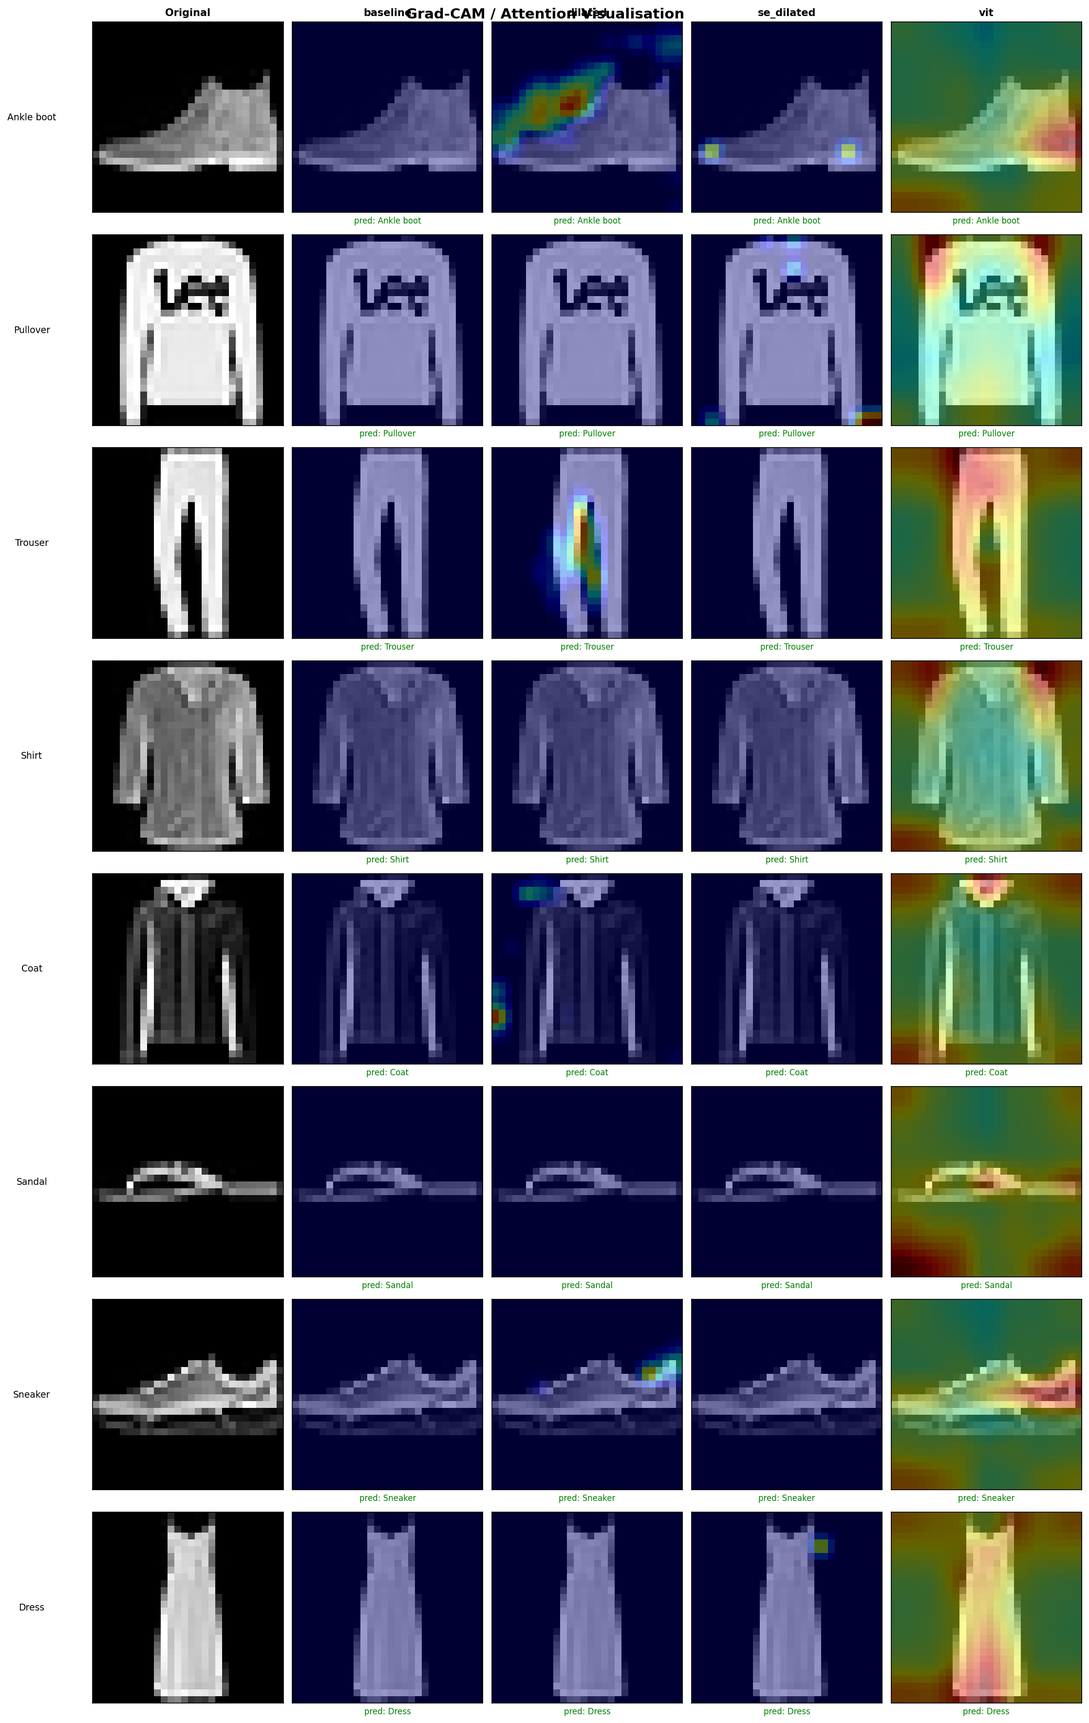
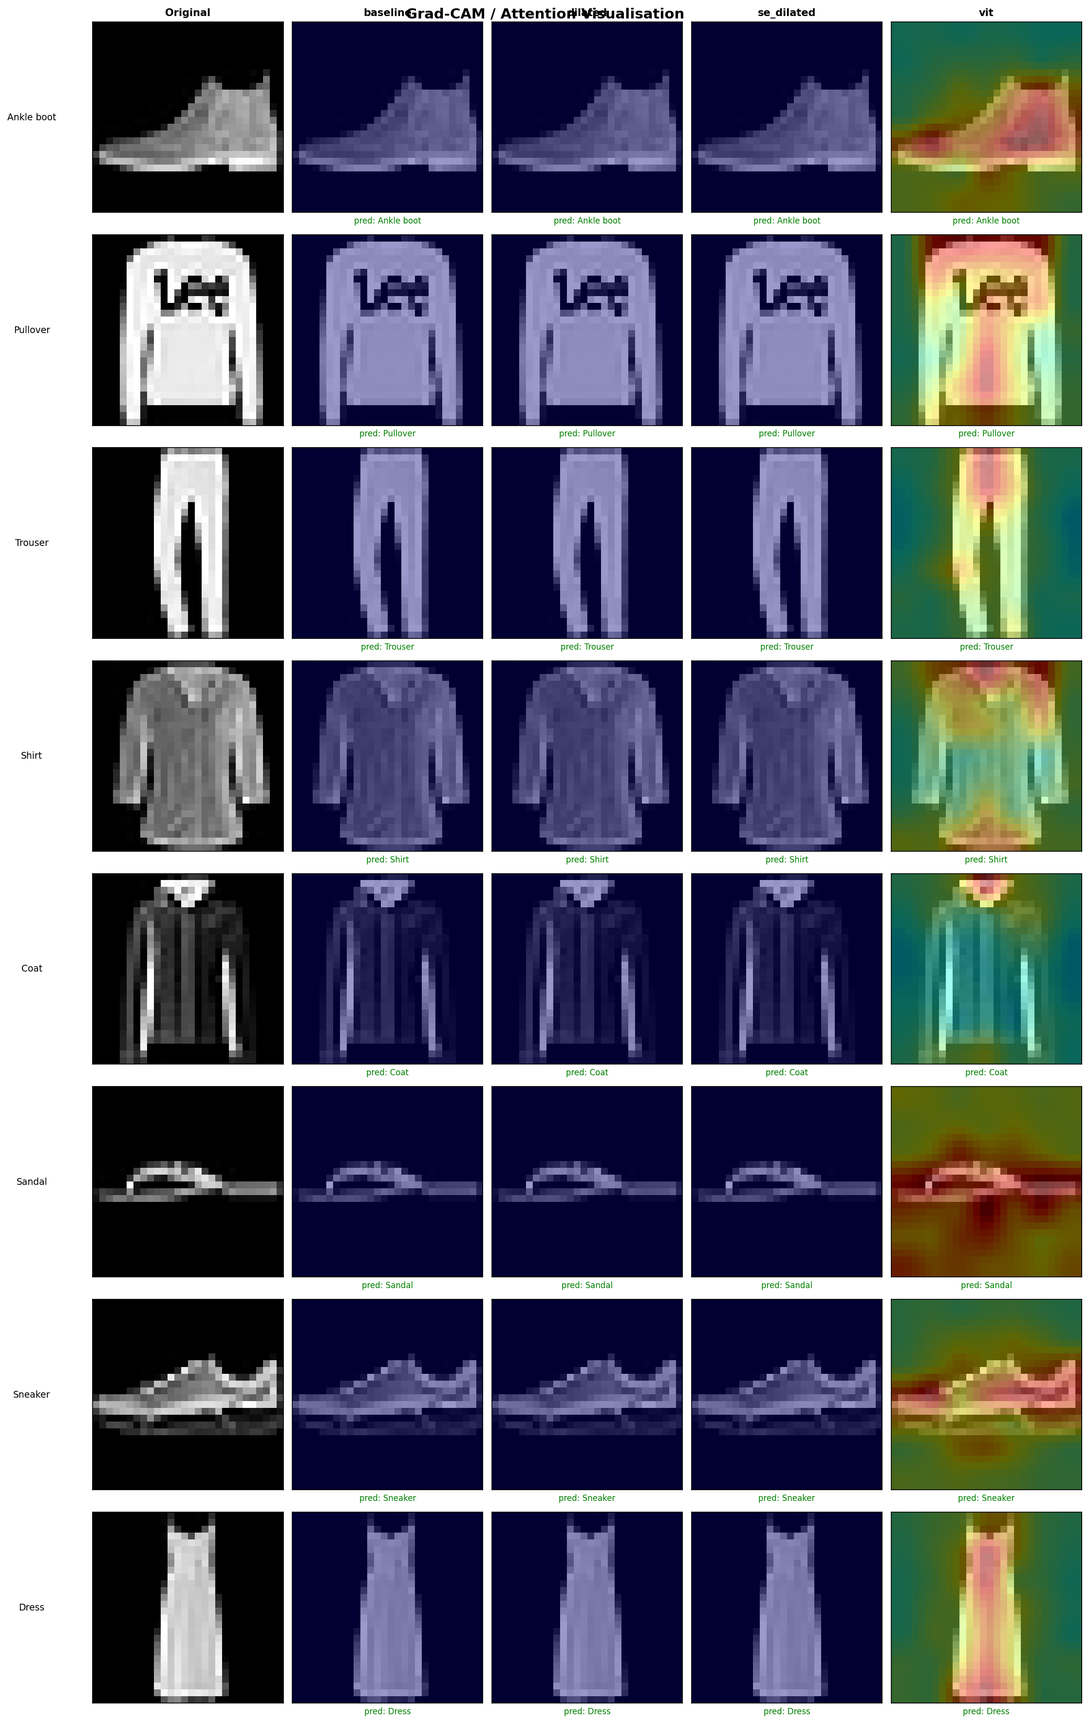
Fix remaining report issues, Grad-CAM bugs, and update README
Report fixes:
- Fix Shirt accuracy range 72-77% → 64-76% (matches JSON data)
- Fix SE gains claim: Shirt +1.1pp and Coat +1.0pp (not Coat/Pullover)
- Fix "collarless" → "similar silhouettes" (Coat has collars)
- Fix "exponentially increasing" → "enlarging" receptive field
- Fix ">98%" → "above 97%" for Trouser/Bag
- Fix "prepended" → CLS token prepended, positional embeddings added
- Move SimplViT (None) to correct table group (with other None models)

Code fixes:
- Fix generate_gradcam.py checkpoint selection (prefer nomixup + d=2)
- Fix attention rollout: add identity residual per Abnar & Zuidema 2020
- Regenerate Grad-CAM grid with correct checkpoints and algorithm

README: add SE-DilatedCNN, CutMix, label smoothing, Grad-CAM, update results

diff --git a/report.tex b/report.tex
@@ -84,7 +84,7 @@ Despite its apparent simplicity, confusable class pairs such as \textit{Shirt}/\
 
 Standard convolutional neural networks (CNNs) are the dominant approach for this dataset.
 However, vanilla convolutions with small kernels have limited receptive fields, potentially missing broader spatial context that distinguishes, for example, the collar shape of a coat from that of a pullover.
-Dilated convolutions \cite{dilated} address this by inserting gaps between kernel weights, exponentially increasing the receptive field at no additional parameter cost.
+Dilated convolutions \cite{dilated} address this by inserting gaps between kernel weights, enlarging the receptive field at no additional parameter cost.
 Moreover, channel-wise feature recalibration via Squeeze-and-Excitation (SE) networks \cite{senet} has proven effective for allowing the model to emphasise informative feature channels adaptively.
 
 In this project we: (i) establish a CNN baseline, (ii) replace standard convolutions with dilated ones and conduct an ablation study on the dilation rate, (iii) augment the dilated CNN with SE channel attention as our primary novelty, and (iv) compare against a lightweight Vision Transformer \cite{vit}.
@@ -162,7 +162,7 @@ The SE mechanism adds only 768 parameters (total: 871{,}786) while enabling the 
 
 We include a lightweight Vision Transformer for architecture comparison.
 Images are split into $4\!\times\!4$ patches (49 patches per image) and linearly projected to an embedding dimension of 128.
-A learnable \texttt{[CLS]} token and positional embeddings are prepended.
+A learnable \texttt{[CLS]} token is prepended and positional embeddings are added.
 Six standard Transformer encoder layers (4 attention heads, MLP ratio 2.0, dropout 0.1) process the sequence; the \texttt{[CLS]} token representation is passed to a linear classifier.
 Total parameters: 805{,}130.
 
@@ -219,6 +219,7 @@ Table~\ref{tab:main} reports the best test accuracy and macro-F1 score achieved 
     SE-DilatedCNN $d=2$ & None            & \textbf{92.82} & \textbf{0.9280} \\
     BaselineCNN         & None            & 92.49 & 0.9247 \\
     DilatedCNN $d=2$    & None            & 92.45 & 0.9244 \\
+    SimplViT            & None            & 91.12 & 0.9106 \\
     \midrule
     SE-DilatedCNN $d=2$ & MixUp + LS\,0.1 & 91.86 & 0.9178 \\
     BaselineCNN         & MixUp + LS\,0.1 & 91.78 & 0.9172 \\
@@ -226,7 +227,6 @@ Table~\ref{tab:main} reports the best test accuracy and macro-F1 score achieved 
     SE-DilatedCNN $d=2$ & MixUp           & 91.56 & 0.9151 \\
     BaselineCNN         & MixUp           & 91.31 & 0.9116 \\
     SimplViT            & MixUp           & 91.28 & 0.9124 \\
-    SimplViT            & None            & 91.12 & 0.9106 \\
     \midrule
     DilatedCNN $d=2$    & CutMix          & 90.50 & 0.9037 \\
     BaselineCNN         & CutMix          & 90.34 & 0.9023 \\
@@ -314,9 +314,9 @@ This confirms that \textit{channel-wise feature recalibration} is more impactful
 \subsection{Per-Class Analysis}
 
 Figure~\ref{fig:perclass} shows per-class accuracy and F1 scores across the main experiments.
-The \textit{Shirt} class is the most challenging for all models (72--77\% accuracy), reflecting its visual similarity to both \textit{T-shirt/top} and \textit{Coat}.
-SE-DilatedCNN achieves the largest relative gains on the \textit{Coat} and \textit{Pullover} classes — both require broader texture context to distinguish from neighbouring categories — consistent with the SE block's ability to emphasise texture-discriminative channels.
-\textit{Trouser} and \textit{Bag} are the easiest classes ($>$98\% for all models) due to their distinctive shapes.
+The \textit{Shirt} class is the most challenging for all models (64--76\% accuracy depending on augmentation), reflecting its visual similarity to both \textit{T-shirt/top} and \textit{Coat}.
+SE-DilatedCNN achieves the largest relative gains on the \textit{Shirt} (+1.1\,pp) and \textit{Coat} (+1.0\,pp) classes — both require discriminating subtle texture and collar features — consistent with the SE block's ability to emphasise texture-discriminative channels.
+\textit{Trouser} and \textit{Bag} are the easiest classes (consistently above 97\% for all models) due to their distinctive shapes.
 
 \begin{figure}[H]
   \centering
@@ -335,7 +335,7 @@ SE-DilatedCNN achieves the largest relative gains on the \textit{Coat} and \text
 \subsection{Confusion Matrix Analysis}
 
 Figure~\ref{fig:cm} presents the normalised confusion matrices for the best model (SE-DilatedCNN) and the baseline.
-The primary confusion is between \textit{Shirt}, \textit{T-shirt/top}, and \textit{Coat} — all collarless upper-body garments.
+The primary confusion is between \textit{Shirt}, \textit{T-shirt/top}, and \textit{Coat} — upper-body garments with similar silhouettes.
 SE-DilatedCNN reduces the Shirt$\to$T-shirt confusion compared to the baseline, suggesting that channel attention helps the model focus on discriminative features such as button patterns and collar style.
 
 \begin{figure}[H]
@@ -376,7 +376,7 @@ For SimplViT, we use attention rollout \cite{rollout} to visualise the CLS token
 
 \textbf{SE channel attention is the single most effective improvement.}
 Adding SE blocks to DilatedCNN improves accuracy by 0.37 percentage points with only 768 additional parameters (0.09\% overhead).
-The improvement is concentrated on visually confusable classes (Shirt, Coat, Pullover), supporting the hypothesis that channel attention learns to up-weight texture and edge features that differentiate these garments.
+The improvement is concentrated on the most confusable classes — Shirt (+1.1\,pp) and Coat (+1.0\,pp) — supporting the hypothesis that channel attention learns to up-weight texture and edge features that differentiate these garments.
 
 \textbf{Dilation rate has limited impact at $28\!\times\!28$ resolution.}
 Our ablation shows all three dilation rates performing within 0.17\,pp of each other on DilatedCNN.

diff --git a/report_overleaf/report.tex b/report_overleaf/report.tex
@@ -84,7 +84,7 @@ Despite its apparent simplicity, confusable class pairs such as \textit{Shirt}/\
 
 Standard convolutional neural networks (CNNs) are the dominant approach for this dataset.
 However, vanilla convolutions with small kernels have limited receptive fields, potentially missing broader spatial context that distinguishes, for example, the collar shape of a coat from that of a pullover.
-Dilated convolutions \cite{dilated} address this by inserting gaps between kernel weights, exponentially increasing the receptive field at no additional parameter cost.
+Dilated convolutions \cite{dilated} address this by inserting gaps between kernel weights, enlarging the receptive field at no additional parameter cost.
 Moreover, channel-wise feature recalibration via Squeeze-and-Excitation (SE) networks \cite{senet} has proven effective for allowing the model to emphasise informative feature channels adaptively.
 
 In this project we: (i) establish a CNN baseline, (ii) replace standard convolutions with dilated ones and conduct an ablation study on the dilation rate, (iii) augment the dilated CNN with SE channel attention as our primary novelty, and (iv) compare against a lightweight Vision Transformer \cite{vit}.
@@ -162,7 +162,7 @@ The SE mechanism adds only 768 parameters (total: 871{,}786) while enabling the 
 
 We include a lightweight Vision Transformer for architecture comparison.
 Images are split into $4\!\times\!4$ patches (49 patches per image) and linearly projected to an embedding dimension of 128.
-A learnable \texttt{[CLS]} token and positional embeddings are prepended.
+A learnable \texttt{[CLS]} token is prepended and positional embeddings are added.
 Six standard Transformer encoder layers (4 attention heads, MLP ratio 2.0, dropout 0.1) process the sequence; the \texttt{[CLS]} token representation is passed to a linear classifier.
 Total parameters: 805{,}130.
 
@@ -219,6 +219,7 @@ Table~\ref{tab:main} reports the best test accuracy and macro-F1 score achieved 
     SE-DilatedCNN $d=2$ & None            & \textbf{92.82} & \textbf{0.9280} \\
     BaselineCNN         & None            & 92.49 & 0.9247 \\
     DilatedCNN $d=2$    & None            & 92.45 & 0.9244 \\
+    SimplViT            & None            & 91.12 & 0.9106 \\
     \midrule
     SE-DilatedCNN $d=2$ & MixUp + LS\,0.1 & 91.86 & 0.9178 \\
     BaselineCNN         & MixUp + LS\,0.1 & 91.78 & 0.9172 \\
@@ -226,7 +227,6 @@ Table~\ref{tab:main} reports the best test accuracy and macro-F1 score achieved 
     SE-DilatedCNN $d=2$ & MixUp           & 91.56 & 0.9151 \\
     BaselineCNN         & MixUp           & 91.31 & 0.9116 \\
     SimplViT            & MixUp           & 91.28 & 0.9124 \\
-    SimplViT            & None            & 91.12 & 0.9106 \\
     \midrule
     DilatedCNN $d=2$    & CutMix          & 90.50 & 0.9037 \\
     BaselineCNN         & CutMix          & 90.34 & 0.9023 \\
@@ -314,9 +314,9 @@ This confirms that \textit{channel-wise feature recalibration} is more impactful
 \subsection{Per-Class Analysis}
 
 Figure~\ref{fig:perclass} shows per-class accuracy and F1 scores across the main experiments.
-The \textit{Shirt} class is the most challenging for all models (72--77\% accuracy), reflecting its visual similarity to both \textit{T-shirt/top} and \textit{Coat}.
-SE-DilatedCNN achieves the largest relative gains on the \textit{Coat} and \textit{Pullover} classes — both require broader texture context to distinguish from neighbouring categories — consistent with the SE block's ability to emphasise texture-discriminative channels.
-\textit{Trouser} and \textit{Bag} are the easiest classes ($>$98\% for all models) due to their distinctive shapes.
+The \textit{Shirt} class is the most challenging for all models (64--76\% accuracy depending on augmentation), reflecting its visual similarity to both \textit{T-shirt/top} and \textit{Coat}.
+SE-DilatedCNN achieves the largest relative gains on the \textit{Shirt} (+1.1\,pp) and \textit{Coat} (+1.0\,pp) classes — both require discriminating subtle texture and collar features — consistent with the SE block's ability to emphasise texture-discriminative channels.
+\textit{Trouser} and \textit{Bag} are the easiest classes (consistently above 97\% for all models) due to their distinctive shapes.
 
 \begin{figure}[H]
   \centering
@@ -335,7 +335,7 @@ SE-DilatedCNN achieves the largest relative gains on the \textit{Coat} and \text
 \subsection{Confusion Matrix Analysis}
 
 Figure~\ref{fig:cm} presents the normalised confusion matrices for the best model (SE-DilatedCNN) and the baseline.
-The primary confusion is between \textit{Shirt}, \textit{T-shirt/top}, and \textit{Coat} — all collarless upper-body garments.
+The primary confusion is between \textit{Shirt}, \textit{T-shirt/top}, and \textit{Coat} — upper-body garments with similar silhouettes.
 SE-DilatedCNN reduces the Shirt$\to$T-shirt confusion compared to the baseline, suggesting that channel attention helps the model focus on discriminative features such as button patterns and collar style.
 
 \begin{figure}[H]
@@ -376,7 +376,7 @@ For SimplViT, we use attention rollout \cite{rollout} to visualise the CLS token
 
 \textbf{SE channel attention is the single most effective improvement.}
 Adding SE blocks to DilatedCNN improves accuracy by 0.37 percentage points with only 768 additional parameters (0.09\% overhead).
-The improvement is concentrated on visually confusable classes (Shirt, Coat, Pullover), supporting the hypothesis that channel attention learns to up-weight texture and edge features that differentiate these garments.
+The improvement is concentrated on the most confusable classes — Shirt (+1.1\,pp) and Coat (+1.0\,pp) — supporting the hypothesis that channel attention learns to up-weight texture and edge features that differentiate these garments.
 
 \textbf{Dilation rate has limited impact at $28\!\times\!28$ resolution.}
 Our ablation shows all three dilation rates performing within 0.17\,pp of each other on DilatedCNN.

diff --git a/generate_gradcam.py b/generate_gradcam.py
@@ -63,22 +63,44 @@ def overlay_cam(img, cam, alpha=0.4):
 
 
 def find_checkpoints(models_dir):
-    """Find all *_best.pth files and parse model info from filenames."""
+    """Find all *_best.pth files and parse model info from filenames.
+
+    Returns dict mapping model_name -> (checkpoint_path, dilation).
+    Prefers nomixup + d=2 checkpoints (the best performing configs).
+    """
     checkpoints = {}
     for path in sorted(glob.glob(os.path.join(models_dir, "*_best.pth"))):
         basename = os.path.basename(path).replace("_best.pth", "")
-        # Parse model name from the tag
         parts = basename.split("_")
         if parts[0] == "se" and len(parts) > 1 and parts[1] == "dilated":
             model_name = "se_dilated"
+            rest = parts[2:]
         else:
             model_name = parts[0]
+            rest = parts[1:]
+
+        # Parse dilation from tag (e.g., "d2" -> 2)
+        dilation = 2  # default
+        for p in rest:
+            if p.startswith("d") and p[1:].isdigit():
+                dilation = int(p[1:])
+
+        is_nomixup = "nomixup" in rest
 
         if model_name in MODEL_MAP:
-            # Use the first checkpoint found for each model type
             if model_name not in checkpoints:
-                checkpoints[model_name] = path
-    return checkpoints
+                checkpoints[model_name] = (path, dilation, is_nomixup)
+            else:
+                _, prev_dil, prev_nomixup = checkpoints[model_name]
+                # Prefer nomixup over augmented, and d=2 for dilated models
+                better_aug = is_nomixup and not prev_nomixup
+                better_dil = (model_name in ("dilated", "se_dilated")
+                              and dilation == 2 and prev_dil != 2)
+                if better_aug or (is_nomixup == prev_nomixup and better_dil):
+                    checkpoints[model_name] = (path, dilation, is_nomixup)
+
+    # Strip the is_nomixup flag from return values
+    return {k: (v[0], v[1]) for k, v in checkpoints.items()}
 
 
 def main():
@@ -117,6 +139,11 @@ def main():
     n_models = len(checkpoints)
     n_samples = len(samples)
 
+    # Pre-load all models once (avoid reloading per sample)
+    loaded_models = {}
+    for model_name, (ckpt_path, dilation) in checkpoints.items():
+        loaded_models[model_name] = load_model(model_name, ckpt_path, dilation=dilation)
+
     # Create figure: rows = samples, cols = original + one per model
     fig, axes = plt.subplots(n_samples, n_models + 1,
                               figsize=(3 * (n_models + 1), 3 * n_samples))
@@ -136,8 +163,8 @@ def main():
                                labelpad=60, va="center")
         axes[i, 0].set_xticks([]); axes[i, 0].set_yticks([])
 
-        for j, (model_name, ckpt_path) in enumerate(checkpoints.items()):
-            model = load_model(model_name, ckpt_path)
+        for j, model_name in enumerate(checkpoints.keys()):
+            model = loaded_models[model_name]
 
             if model_name == "vit":
                 cam = attention_rollout(model, x)

diff --git a/src/gradcam.py b/src/gradcam.py
@@ -109,9 +109,13 @@ def attention_rollout(model, x):
         return np.zeros((7, 7))  # fallback
 
     # Rollout: multiply attention matrices layer by layer
+    # Add identity to account for residual connections (Abnar & Zuidema, 2020)
     result = attentions[0].squeeze(0).cpu().numpy()  # (N, N)
+    I = np.eye(result.shape[0])
+    result = 0.5 * result + 0.5 * I
     for attn in attentions[1:]:
         attn_np = attn.squeeze(0).cpu().numpy()
+        attn_np = 0.5 * attn_np + 0.5 * I
         result = attn_np @ result
 
     # CLS token's attention over patch tokens (skip CLS→CLS)

diff --git a/README.md b/README.md
@@ -6,21 +6,22 @@ Neural Networks and Deep Learning Group Project (NTU, AY2025/26)
 
 ## Overview
 
-This project investigates deep learning architectures for clothing classification on the Fashion-MNIST dataset (60,000 train / 10,000 test, 10 classes, 28×28 grayscale images).
+This project investigates deep learning architectures for clothing classification on the Fashion-MNIST dataset (60,000 train / 10,000 test, 10 classes, 28x28 grayscale images).
 
-Three architectures are compared:
+Four architectures are compared:
 - **BaselineCNN** — standard two-block CNN
-- **DilatedCNN** — CNN with dilated convolutions (dilation > 1) in the second block *(novelty)*
+- **DilatedCNN** — CNN with dilated convolutions (dilation > 1) in the second block
+- **SE-DilatedCNN** — DilatedCNN + Squeeze-and-Excitation channel attention *(novelty)*
 - **SimplViT** — lightweight Vision Transformer (patch-based)
 
-MixUp augmentation (Zhang et al., 2018) is evaluated on all three models. An ablation study on dilation rates (d = 1, 2, 3) validates the optimal configuration.
+Three augmentation strategies are evaluated: MixUp, CutMix, and label smoothing. An ablation study on dilation rates (d = 1, 2, 3) validates the optimal configuration. Grad-CAM and attention rollout visualisations provide model interpretability.
 
 ---
 
 ## Requirements
 
 ```bash
-pip install torch torchvision numpy matplotlib
+pip install -r requirements.txt
 ```
 
 Tested with Python 3.10+, PyTorch 2.0+. Runs on CPU, MPS (Apple Silicon), or CUDA — device is selected automatically.
@@ -32,8 +33,8 @@ Tested with Python 3.10+, PyTorch 2.0+. Runs on CPU, MPS (Apple Silicon), or CUD
 ### Option 1 — Run everything at once
 
 ```bash
-bash run_all.sh          # trains all 6 main experiments (≈ 1.5 hrs on MPS)
-bash run_ablation.sh     # trains dilation ablation d=1,2,3 (≈ 20 min on MPS)
+bash run_all.sh          # trains all main experiments
+bash run_ablation.sh     # trains dilation ablation d=1,2,3
 ```
 
 Both scripts automatically regenerate all figures on completion.
@@ -43,26 +44,37 @@ Both scripts automatically regenerate all figures on completion.
 ```bash
 python main.py --model baseline --epochs 30
 python main.py --model dilated  --epochs 30 --mixup
+python main.py --model se_dilated --epochs 30
+python main.py --model se_dilated --epochs 30 --cutmix
 python main.py --model vit      --epochs 30
-python main.py --model dilated  --epochs 30 --dilation 3   # ablation
+python main.py --model baseline --epochs 30 --mixup --label_smoothing 0.1
 ```
 
 Full argument reference:
 
 | Argument | Default | Description |
 |---|---|---|
-| `--model` | `baseline` | `baseline`, `dilated`, or `vit` |
+| `--model` | `baseline` | `baseline`, `dilated`, `se_dilated`, or `vit` |
 | `--epochs` | `30` | Number of training epochs |
 | `--batch_size` | `64` | Mini-batch size |
 | `--lr` | `1e-3` | Initial learning rate (cosine annealed) |
 | `--mixup` | off | Enable MixUp augmentation |
 | `--mixup_alpha` | `0.4` | MixUp Beta distribution parameter |
-| `--dilation` | `2` | Dilation rate for DilatedCNN (1/2/3) |
+| `--cutmix` | off | Enable CutMix augmentation |
+| `--cutmix_alpha` | `1.0` | CutMix Beta distribution parameter |
+| `--label_smoothing` | `0.0` | Label smoothing factor |
+| `--dilation` | `2` | Dilation rate for DilatedCNN / SE-DilatedCNN (1/2/3) |
 
 ### Option 3 — Regenerate figures from saved results
 
 ```bash
 python plot_results.py
+```
+
+### Grad-CAM visualisations
+
+```bash
+python generate_gradcam.py
 ```
 
 ### Model complexity summary
@@ -79,8 +91,9 @@ python model_summary.py
 SC4001_final_project/
 ├── main.py                  # training entry point
 ├── plot_results.py          # figure generation
+├── generate_gradcam.py      # Grad-CAM / attention rollout visualisation
 ├── model_summary.py         # parameter count & inference speed
-├── run_all.sh               # runs all 6 main experiments
+├── run_all.sh               # runs all main experiments
 ├── run_ablation.sh          # runs dilation ablation (d=1,2,3)
 ├── requirements.txt
 ├── data/                    # Fashion-MNIST (auto-downloaded)
@@ -90,32 +103,41 @@ SC4001_final_project/
 │   └── figures/             # all generated plots
 └── src/
     ├── dataset.py           # data loading & augmentation
-    ├── models.py            # BaselineCNN, DilatedCNN, SimplViT
+    ├── models.py            # BaselineCNN, DilatedCNN, SE_DilatedCNN, SimplViT
     ├── train.py             # training & evaluation loops
     ├── mixup.py             # MixUp augmentation
-    └── metrics.py           # confusion matrix, accuracy, F1
+    ├── cutmix.py            # CutMix augmentation
+    ├── metrics.py           # confusion matrix, accuracy, F1
+    └── gradcam.py           # Grad-CAM and attention rollout utilities
 ```
 
 ---
 
 ## Results Summary
 
-| Model | Best Test Acc | Macro F1 |
-|---|---|---|
-| DilatedCNN (no MixUp) | **92.76%** | **0.9275** |
-| BaselineCNN (no MixUp) | 92.73% | 0.9271 |
-| DilatedCNN + MixUp | 92.05% | 0.9199 |
-| BaselineCNN + MixUp | 91.74% | 0.9166 |
-| SimplViT (no MixUp) | 91.06% | 0.9103 |
-| SimplViT + MixUp | 91.02% | 0.9098 |
+| Model | Augmentation | Test Acc | Macro F1 |
+|---|---|---|---|
+| **SE-DilatedCNN d=2** | **None** | **92.82%** | **0.9280** |
+| BaselineCNN | None | 92.49% | 0.9247 |
+| DilatedCNN d=2 | None | 92.45% | 0.9244 |
+| SimplViT | None | 91.12% | 0.9106 |
+| SE-DilatedCNN d=2 | MixUp + LS 0.1 | 91.86% | 0.9178 |
+| BaselineCNN | MixUp + LS 0.1 | 91.78% | 0.9172 |
+| DilatedCNN d=2 | MixUp | 91.62% | 0.9152 |
+| SE-DilatedCNN d=2 | MixUp | 91.56% | 0.9151 |
+| BaselineCNN | MixUp | 91.31% | 0.9116 |
+| SimplViT | MixUp | 91.28% | 0.9124 |
+| DilatedCNN d=2 | CutMix | 90.50% | 0.9037 |
+| BaselineCNN | CutMix | 90.34% | 0.9023 |
+| SE-DilatedCNN d=2 | CutMix | 90.30% | 0.9021 |
 
-**Dilation ablation (DilatedCNN, no MixUp):**
+**Dilation ablation (DilatedCNN, no augmentation):**
 
 | Dilation | Test Acc | Macro F1 |
 |---|---|---|
-| d=1 | 92.61% | 0.9258 |
-| d=2 | **92.72%** | **0.9270** |
-| d=3 | 92.34% | 0.9234 |
+| d=1 | **92.62%** | **0.9260** |
+| d=2 | 92.45% | 0.9244 |
+| d=3 | 92.50% | 0.9248 |
 
 ---
 
